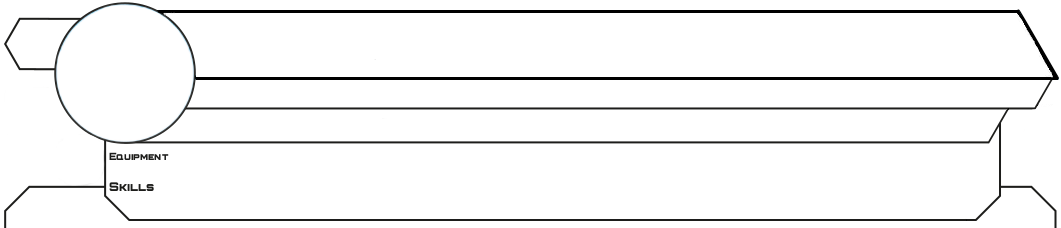
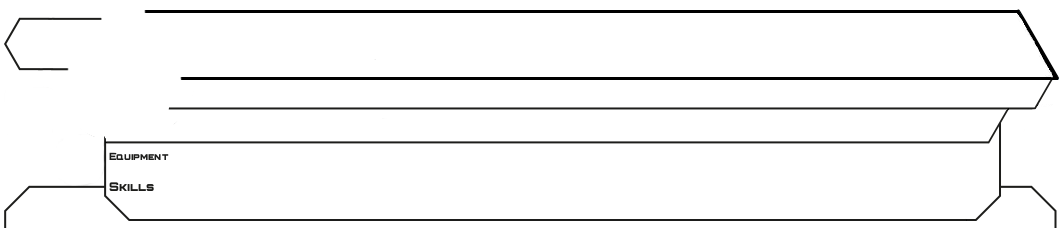
.

diff --git a/ia-aleph_3/src/main/webapp/ia.html b/ia-aleph_3/src/main/webapp/ia.html
@@ -319,18 +319,32 @@
                     <div class="ia-trooperLongIsc">{{longisc}}</div>
                     <div class="ia-trooperIsc">isc: {{longisc}}</div>
                     <div class="ia-trooperType">{{type}}</div>
+            {{#if hasCube}}
+            {{#if hasCube2}}
+            <div class="ia-trooperIcon ia-trooperCube ia-cube2Icon" ></div>
+            {{else}}
+            <div class="ia-trooperIcon ia-trooperCube ia-cubeIcon" ></div>
+            {{/if}}
+            {{/if}}
+            {{#if isRegular}}<div class="ia-trooperIcon ia-trooperTraining ia-regularIcon" ></div>{{/if}}
+            {{#if isIrregular}}<div class="ia-trooperIcon ia-trooperTraining ia-irregularIcon" ></div>{{/if}}
+            {{#if isFrenzy}}<div class="ia-trooperIcon ia-trooperImpetuosity ia-frenzyIcon" ></div>{{/if}}                        
+            {{#if isImpetuous}}<div class="ia-trooperIcon ia-trooperImpetuosity ia-impetuousIcon" ></div>{{/if}}
+            {{#if isExtremelyImpetuous}}<div class="ia-trooperIcon ia-trooperImpetuosity ia-extremelyimpetuousIcon" ></div>{{/if}}
+            {{#if isHackable}}<div class="ia-trooperIcon ia-trooperHackable ia-hackableIcon" ></div>{{/if}}
+            <img class="ia-trooperLogo" src="{{../baseurl}}/img/troop/{{logo}}_logo.png"></img>
                     <table class="ia-trooperAttributesTable">
                         <thead >
                             <tr>
-                                <th>{{messages.mov}}</th>
-                                <th>{{messages.cc}}</th>
-                                <th>{{messages.bs}}</th>
-                                <th>{{messages.ph}}</th>
-                                <th>{{messages.wip}}</th>
-                                <th>{{messages.arm}}</th>
-                                <th>{{messages.bts}}</th>
-                                <th>{{#if hasStr}}{{messages.str}}{{else}}{{messages.wounds}}{{/if}}</th>
-                                <th>{{messages.silhouette}}</th>
+                                <th>{{../messages.mov}}</th>
+                                <th>{{../messages.cc}}</th>
+                                <th>{{../messages.bs}}</th>
+                                <th>{{../messages.ph}}</th>
+                                <th>{{../messages.wip}}</th>
+                                <th>{{../messages.arm}}</th>
+                                <th>{{../messages.bts}}</th>
+                                <th>{{#if hasStr}}{{../../messages.str}}{{else}}{{../../messages.wounds}}{{/if}}</th>
+                                <th>{{../messages.silhouette}}</th>
                             </tr>
                         </thead>
                         <tbody>

diff --git a/ia-aleph_3/src/main/css/ia-print.less b/ia-aleph_3/src/main/css/ia-print.less
@@ -52,12 +52,18 @@ body{
     letter-spacing: -1px;
 }
 .ia-trooperAttributesTable{
-    top: 78px;
+    top: 56px;
     position: absolute;
     left: 140px;
     width: 550px;
     text-align: center;
-    tbody{
+    tr{
+        height: 21px;
+    }
+    thead th{
+        font-weight: normal;    
+    }
+    tbody td{
         font-weight: bold;    
     }
 }
@@ -71,6 +77,59 @@ body{
 }
 .ia-trooperEquipments{
     top: 118px;
+}
+
+.ia-trooperIcon{
+    position: absolute;
+    width:32px;
+    height:32px;
+    background-size: 100% 100%;
+}
+.ia-cube2Icon{
+    background-image: url('../img/icon/cube2_icon.png');
+}
+.ia-cubeIcon{
+    background-image: url('../img/icon/cube_icon.png');
+}
+.ia-regularIcon{
+    background-image: url('../img/icon/regular_icon.png');
+}
+.ia-irregularIcon{
+    background-image: url('../img/icon/irregular_icon.png');
+}
+.ia-frenzyIcon{
+    background-image: url('../img/icon/frenzy_icon.png');
+}
+.ia-impetuousIcon{
+    background-image: url('../img/icon/impetuous_icon.png');
+}
+.ia-extremelyimpetuousIcon{
+    background-image: url('../img/icon/extremely_impetuous_icon.png');
+}
+.ia-hackableIcon{
+    background-image: url('../img/icon/hackable_icon.png');
+}
+.ia-trooperTraining{
+    top: 100px;
+    left: 39px;
+}
+.ia-trooperCube{
+    top: 70px;
+    left: 6px;
+}
+.ia-trooperImpetuosity{
+    left: 6px;
+    top: 100px;
+}
+.ia-trooperHackable{
+    display: none; /* TODO */
+}
+.ia-trooperLogo{
+    width: 97px;
+    height: 97px;
+    position: absolute;
+    top: 4px;
+    left: 40px;
 }
 
 .ia-trooperList{
